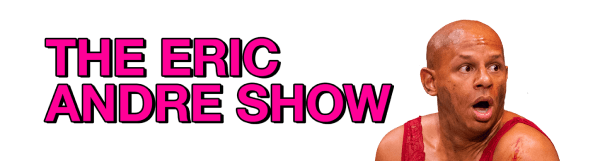
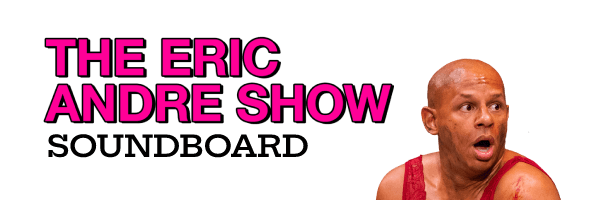
added search functionality

diff --git a/index.html b/index.html
@@ -39,13 +39,15 @@
       <img
         src="./assets/header.png"
         width="600"
-        height="161"
+        height="200"
         alt="the eric andre show"
       />
     </header>
     <main>
-      <h1>Soundboard</h1>
-      <input type="text" placeholder="search..." autofocus />
+      <!-- <h1>Soundboard</h1> -->
+      <form>
+        <input type="text" placeholder="search sound..." autofocus />
+      </form>
       <div class="container">
         <div class="card">
           <div id="yeah" class="btn">YEAH</div>
@@ -201,18 +203,28 @@
     </main>
     <footer>
       <div class="icons">
-        <img
-          src="./assets/hannibal-icon.png"
-          width="30"
-          height="30"
-          alt="hannibal buress"
-        />
-        <img
-          src="./assets/eric-icon.png"
-          width="30"
-          height="30"
-          alt="eric andre"
-        />
+        <a
+          href="https://www.instagram.com/hannibalburess/?hl=en"
+          target="_blank"
+        >
+          <img
+            src="./assets/hannibal-icon.png"
+            width="30"
+            height="30"
+            alt="hannibal buress"
+          />
+        </a>
+        <a
+          href="https://www.instagram.com/ericfuckingandre/?hl=en"
+          target="_blank"
+        >
+          <img
+            src="./assets/eric-icon.png"
+            width="30"
+            height="30"
+            alt="eric andre"
+          />
+        </a>
       </div>
       <div>
         made by <a href="https://www.youtube.com/watch?v=dQw4w9WgXcQ">tones</a>

diff --git a/style.css b/style.css
@@ -34,22 +34,28 @@ header img {
 }
 main {
   width: 100%;
-  min-height: 100vh;
-  padding: 2rem;
+  min-height: 80vh;
+  padding: 3rem 2rem;
 
   display: flex;
   align-items: center;
-  justify-content: center;
+  justify-content: start;
   flex-direction: column;
 
   background: black;
   border-top: 2rem solid var(--primary);
 }
 h1 {
-  font-size: 3.6rem;
+  font-size: 2.8rem;
   letter-spacing: 1px;
   color: snow;
-  margin: 2rem 0 3rem;
+  margin: 1rem;
+}
+form {
+  width: 100%;
+  max-width: 900px;
+  margin: 0 auto;
+  padding: 0 0 1.75rem 0;
 }
 input {
   width: 100%;
@@ -58,12 +64,12 @@ input {
   outline: none;
 
   color: snow;
-  background: hsl(0, 0%, 17%, 0.6);
+  background: hsl(0, 0%, 17%, 0.4);
   border-radius: var(--border-radius);
 
   font-size: 1.8rem;
   font-family: inherit;
-  font-weight: bold;
+  letter-spacing: 1px;
 }
 .container {
   width: 100%;
@@ -73,7 +79,7 @@ input {
   gap: 1.5rem;
 
   display: grid;
-  grid-template-columns: repeat(auto-fit, minmax(240px, 1fr));
+  grid-template-columns: repeat(auto-fill, minmax(240px, 1fr)); /* auto-fit */
   place-items: center;
 
   background: hsl(0, 0%, 17%, 0.6);

diff --git a/app.js b/app.js
@@ -1,6 +1,9 @@
 const audio = document.querySelectorAll('audio');
 const buttons = document.querySelectorAll('.btn');
 
+const container = document.querySelector('.container');
+const input = document.querySelector('input');
+
 const sounds = [...audio];
 
 ['click', 'ontouchstart'].forEach((evt) => {
@@ -13,5 +16,27 @@ const sounds = [...audio];
       });
       if (!playing) sound.play();
     });
+  });
+});
+
+input.addEventListener('keyup', (e) => {
+  container.innerHTML = '';
+  let data = [...buttons];
+  let searchResults = data.filter((item) => {
+    const regex = new RegExp(input.value, 'gi');
+    return item.innerText.match(regex);
+  });
+  if (searchResults.length === 0) {
+    container.innerText = `We'll be right back...`;
+    return;
+  }
+  // container.innerText = '';
+  // // paint the search results, starting the cycle again
+  // paintElements(searchResults);
+  searchResults.forEach((result) => {
+    const card = document.createElement('div');
+    card.classList.add('card');
+    card.append(result);
+    container.append(card);
   });
 });
